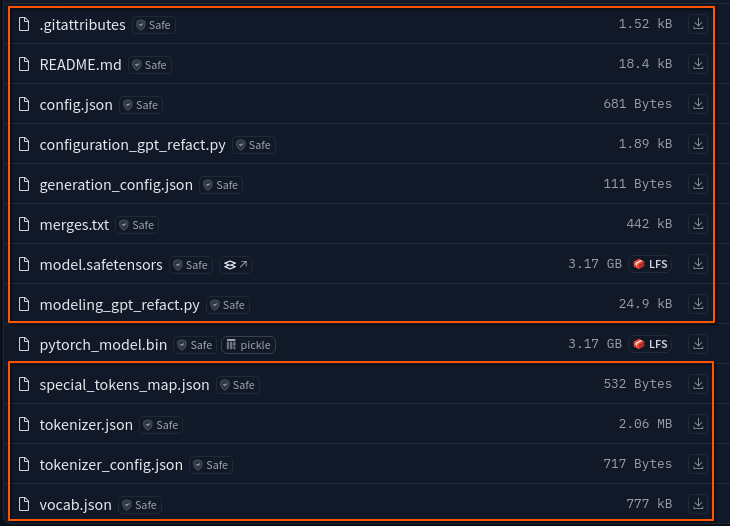
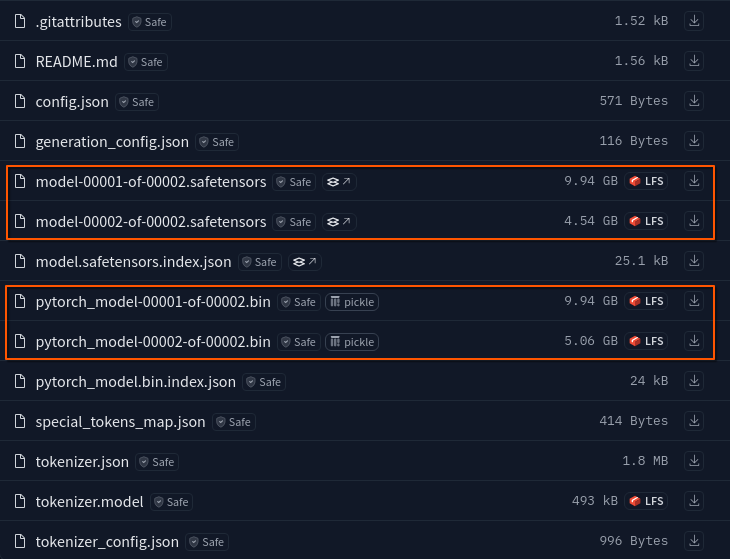
Marketplace
Updated Limitations and Upload guide; small fixes.

diff --git a/docs/marketplace/guides/upload.md b/docs/marketplace/guides/upload.md
@@ -10,7 +10,7 @@ import TabItem from '@theme/TabItem';
 
 This guide provides step-by-step instructions for uploading a model to Super Protocol.
 
-## Step 1. Requirements for models
+## Step 1. Check requirements
 
 Ensure your model meets the Super Protocol requirements. Otherwise, the order may fail.
 
@@ -42,13 +42,13 @@ If your model is from Hugging Face, ensure its _task_ matches one of the support
 
 ### Model size
 
-The total size of your model files must not exceed 10 GB; otherwise, deployment may fail. Larger slots to support bigger models will be available in the future.
+The total size of your model files must not exceed 10 GB; otherwise, deployment may fail. More compute with larger slots to support bigger models will be available in the future.
 
-Note that large models perform poorly on TDX CPU without GPU support. If you plan on deploying on CPU, choose a smaller model.
+Note that large models may perform poorly on TDX machines without GPU support. If you plan on deploying on CPU, choose a smaller model.
 
 ## Step 2. Select files
 
-Models consist of multiple files. Usually, not all of them are required. Select files following the instructions for your model's format.
+Models consist of multiple files. Often, not all of them are required. Select files following the instructions for your model's format.
 
 ### GGUF format
 
@@ -61,7 +61,7 @@ Choose one GGUF file and place it in a separate directory. For example:
 
 ### GGML format
 
-Models in the GGML formal are quantized as well.
+Models in the GGML formal are often quantized as well.
 
 Choose one BIN and all other files and place them in a separate directory. For example:
 
@@ -70,15 +70,27 @@ Choose one BIN and all other files and place them in a separate directory. For e
 
 ### Safetensors formats
 
-Place all files from the repository into a separate directory.
+Place all files from the repository in a separate directory. For example:
 
-Ensure to avoid duplications. If a single consolidated `model.safetensors` file and multiple `model-xxxxx-of-yyyyy.safetensors` files are available, select one set and remove the other. For example:
+<img src={require('../images/hf-safetensors.png').default} width="auto" height="auto" border="1"/>
+<br/>
+<br/>
+
+Avoid duplications. Some repositories contain several variants of the same model. For example, one of the the highlighted files on the following screenshot can be removed:
+
+<img src={require('../images/hf-safetensors-duplicates.png').default} width="auto" height="auto" border="1"/>
+<br/>
+<br/>
+
+If a single consolidated `model.safetensors` file and multiple `model-xxxxx-of-yyyyy.safetensors` files are available, choose one set and remove the other. For example, one of the highlighted sets of files on the following screenshot should be removed:
 
 <img src={require('../images/hf-safetensors-consolidated.png').default} width="auto" height="auto" border="1"/>
 <br/>
 <br/>
 
-If multiple formats are available, select one format and remove the others. For example:
+### Multiple formats
+
+If multiple formats are available, choose one of them and remove the others. For example, one of the highlighted sets of files on the following screenshot should be removed:
 
 <img src={require('../images/hf-formats.png').default} width="auto" height="auto" border="1"/>
 <br/>
@@ -142,9 +154,9 @@ Fill out the form:
 
 - **Content Name**: type the desired model name. It may be different from the file name. Providing a meaningful name makes it easier to find the model later.
 - **Category**: choose the model category from the drop-down menu. You can only choose one.
-- **Engine**: choose compatible engines from the drop-down menu. It is recommended to choose both and then decide how you want to run the model during order creation:
-  + Engines marked as 'GPU only' run the model on an NVIDIA H100 Tensor Core GPU.
-  + Engines marked as 'CPU only' run the model on an Intel TDX CPU.
+- **Engine**: choose compatible engines from the drop-down menu. You can choose both **CPU only** and **GPU only** variants and decide how you want to run the model later during order creation:
+  + Engines marked as **GPU only** run the model on an NVIDIA H100 Tensor Core GPU.
+  + Engines marked as **CPU only** run the model on an Intel TDX CPU.
 
 <img src={require('../images/upload-content.png').default} width="auto" height="auto" border="1"/>
 <br/>

diff --git a/docs/marketplace/limitations.md b/docs/marketplace/limitations.md
@@ -5,37 +5,39 @@ slug: "/limitations"
 sidebar_position: 1
 ---
 
-The testnet has a limited amount of computing resources. To ensure fair access, Super Protocol has set limits on CPU/GPU compute configurations and token availability, allowing everyone to participate. Additional NVIDIA H100 machines will be added soon.
+The testnet has a limited amount of computing resources. To ensure fair access, Super Protocol has set limits on CPU/GPU compute configurations and token availability, allowing everyone to participate.
 
 ## Pricing for orders
 
-On the testnet, you can deploy models using either Intel TDX CPUs or NVIDIA H100 GPUs. While GPUs are significantly faster, CPUs are cheaper and have more availability. The current public machines include:
+On the testnet, you can deploy models using either Intel TDX CPUs or NVIDIA H100 Tensor Core GPUs.
 
-- **Super 2: TDX+H100 (Public)** can run orders on GPU.
-- **Super 3: TDX (Public)** can only run orders on CPU.
+Super Protocol has two types of compute:
+
+- **TDX+H100** machines can run orders on GPU or CPU, depending on the selected engine type.
+- **TDX** machines can only run orders on CPU. Note that this mode is much slower.
+
+Super Protocol constantly adds more TDX+H100 machines and will soon begin onboarding machines from third-party providers.
 
 Pricing and restrictions:
 
-- Order lease time: minimum of 2 hours and a maximum of 4 hours.
-- Price per hour:
-    + CPU: 2.13 TEE tokens/hour.
-    + GPU: 4.126 TEE tokens/hour.
+- Order lease time: minimum 2 hours and maximum 4 hours.
+- Compute costs 4.134 TEE tokens per hour.
 - Models from the Marketplace cost 1 TEE per order.
 - Engines cost 0.5 TEE per order.
-- Tunnels Launcher fee to set up a confidential tunnel: approximately 1-2 TEE per order.
+- Tunnels Launcher fee to set up a confidential tunnel is approximately 1-2 TEE per order.
 
 For example, a four-hour GPU order will cost approximately:
 
-4.126 * 4 + 1 + 0.5 + 2 = **~19-20 TEE** tokens.
+4.134 * 4 + 1 + 0.5 + 2 = **~19-20 TEE** tokens.
 
 ## Token limits
 
-- **Demo users** receive a one-time advance of 50 TEE tokens with no possibility to replenish. To continue testing, users must [log in with a Web3 account](/marketplace/guides/log-in).
-- **Web3 users** can receive up to 25 TEE tokens and 5 POL tokens per day, which can be replenished daily. At any given time, Web3 users can hold a maximum of 25 TEE tokens and 5 POL tokens in their wallets.
+- **Demo users** receive a one-time advance of 50 TEE tokens with no replenishment possibility. To continue testing, users must [log in with a Web3 account](/marketplace/guides/log-in).
+- **Web3 users** can receive up to 25 TEE tokens and 5 POL tokens daily. At any given time, Web3 users can hold a maximum of 25 TEE tokens and 5 POL tokens in their wallets.
 
 ## Model limits
 
-The total size of your model files must not exceed 10 GB; otherwise, deployment may fail. Larger slots to support bigger models will be available in the future.
+The total size of your model files should not exceed 10 GB; otherwise, deployment may fail. More compute with larger slots to support bigger models will be available in the future.
 
 Also, deployed models must belong to a category supported by one of the AI engines:
 

diff --git a/docs/marketplace/guides/troubleshooting.md b/docs/marketplace/guides/troubleshooting.md
@@ -17,7 +17,7 @@ If the **Enter Marketplace** button is stuck in the loading state, open the Meta
 
 If MetaMask shows no requests, refresh the page and press the **Enter Marketplace** button again.
 
-If the problem persists, restart your browser and log in to MetaMask before trying to enter the Marketplace.
+If the problem persists, restart your browser and unlock MetaMask before trying to enter the Marketplace.
 
 ## Order status: Error
 
@@ -27,7 +27,7 @@ The **Error** status means something went completely wrong, and the model was no
 <br/>
 <br/>
 
-Click the **Get Result** button to download the order log file containing technical information about the error. If the file is difficult to read, you can analyze it using a chatbot like Claude or ChatGPT.
+Click the **Get Result** button to download the order log file containing technical information about the error. If the file is difficult to read, you can analyze it using a chatbot like Claude, ChatGPT, or similar.
 
 ### Trust remote code
 
@@ -35,7 +35,7 @@ Some models may contain scripts without which the model will not run. If you dep
 
 An example of a model that relies on remote scripts is [cerebras/btlm-3b-8k-base](https://huggingface.co/cerebras/btlm-3b-8k-base).
 
-To avoid this error, allow executing remote code in the engine settings before checkout using the following instructions:
+To avoid this error, allow executing remote code in the engine settings using the following instructions.
 
 In the Order Builder, open the engine settings.
 
